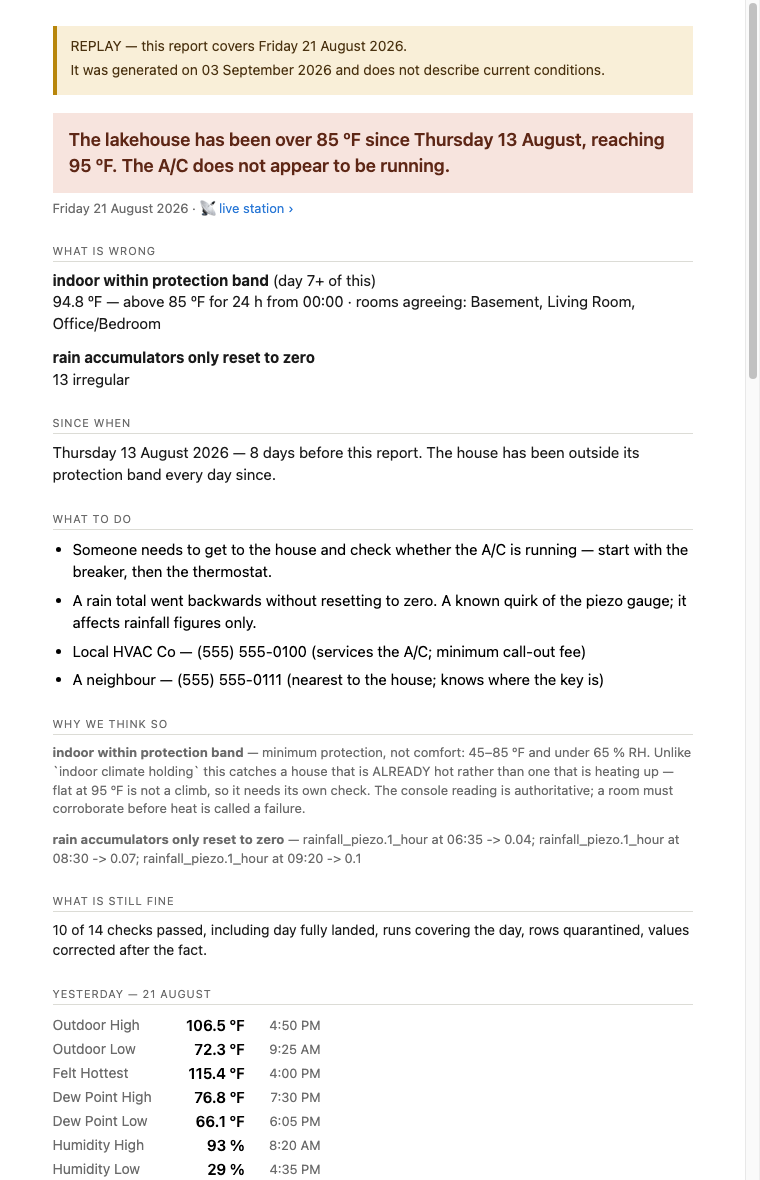
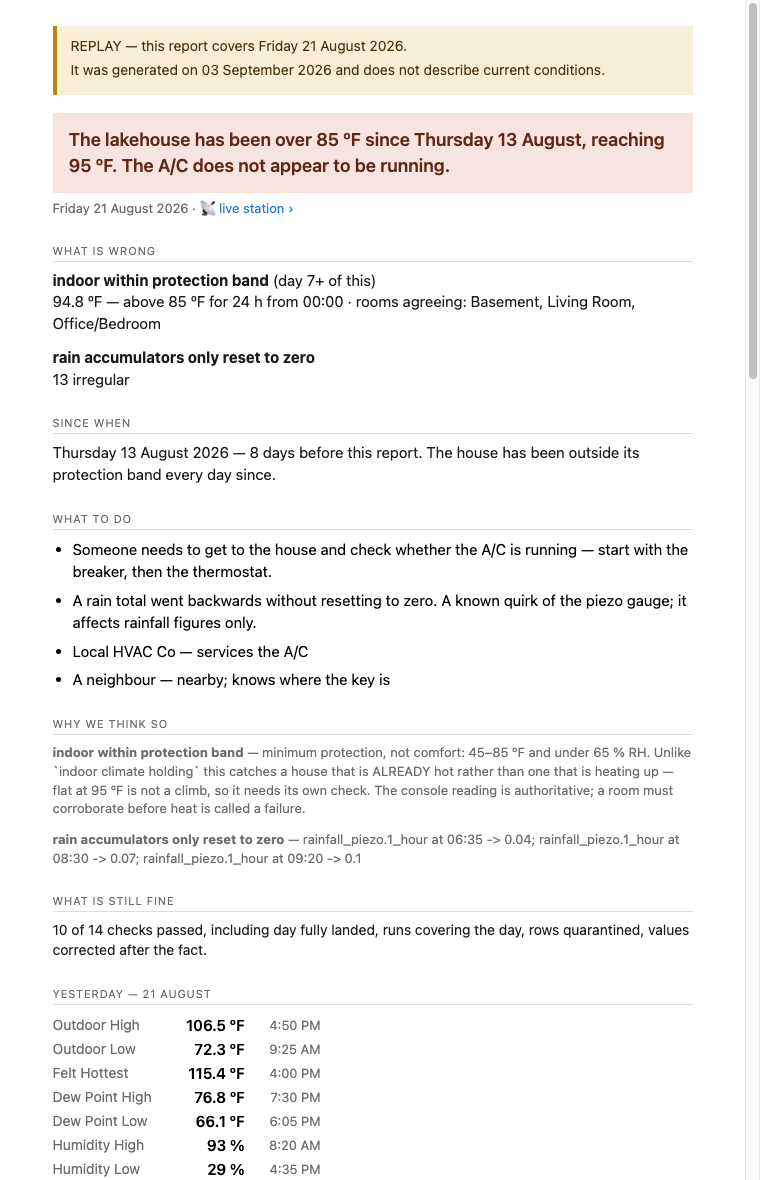
Stop carrying phone numbers, and stop assuming there is one
`reach` is now optional and normally empty. A number in a secret store, in an
email body, and in a rendered screenshot is three copies of somebody else's
contact details, and the people who receive these emails already know how to
reach a neighbour. Naming WHO is the part they cannot infer.

The field stays in the shape so an entry that genuinely needs one -- an
after-hours line nobody memorises -- can carry it without a code change.

Also isolates the tests from the ambient environment. A test asserting "no
contact is configured" passed on a clean shell and failed on a maintainer's,
because LAKEHOUSE_CONTACTS happened to be exported. A test that depends on the
environment reports on the environment.

Changed region(s): [[0.2421, 0.5492, 0.7868, 0.5797]]

diff --git a/src/reporting/config.py b/src/reporting/config.py
@@ -172,11 +172,15 @@ def priority(check: str) -> int:
 # `.env` locally. See .env.example for the format.
 #
 #   LAKEHOUSE_CONTACTS='[
-#     {"who": "Some HVAC Co", "reach": "(555) 555-0100",
-#      "what": "services the A/C; minimum call-out fee"},
-#     {"who": "A neighbour",  "reach": "(555) 555-0111",
-#      "what": "nearest to the house; knows where the key is"}
+#     {"who": "Some HVAC Co", "what": "services the A/C"},
+#     {"who": "A neighbour",  "what": "nearest to the house; knows where the key is"}
 #   ]'
+#
+# `reach` is an optional third field and is deliberately unused: this system
+# stores nothing it does not need, and a phone number in a secret store, an
+# email body and a rendered screenshot is three copies of somebody else's
+# contact details. The people who receive these emails already know how to
+# reach a neighbour; naming WHO is the part they cannot infer.
 #
 # When it is unset the ACTION email prints an explicit "no contact is
 # configured" line rather than quietly omitting the section: a missing
@@ -187,6 +191,10 @@ ENV_CONTACTS = "LAKEHOUSE_CONTACTS"
 def contacts() -> list[tuple[str, str, str]]:
     """(who, how to reach them, what they can do), from the environment.
 
+    `reach` is optional and normally empty -- see the note above. It stays in
+    the shape so an entry that genuinely needs it (an after-hours line nobody
+    memorises) can carry one without a code change.
+
     Never raises. A malformed list costs the email its contact block, which is
     a degraded ACTION email; letting it raise would cost the email entirely,
     which is the failure this whole project is built against.
@@ -195,7 +203,10 @@ def contacts() -> list[tuple[str, str, str]]:
     if not raw:
         return []
     try:
-        return [(entry["who"], entry["reach"], entry.get("what", "")) for entry in json.loads(raw)]
+        return [
+            (entry["who"], entry.get("reach", ""), entry.get("what", ""))
+            for entry in json.loads(raw)
+        ]
     except Exception as exc:  # never raise from the report path
         print(
             f"WARNING: {ENV_CONTACTS} is set but could not be read "

diff --git a/tests/test_reporting_send.py b/tests/test_reporting_send.py
@@ -213,7 +213,7 @@ def test_a_data_failure_does_not_summon_the_neighbours(monkeypatch, fixture_db):
     """
     monkeypatch.setenv(
         config.ENV_CONTACTS,
-        '[{"who": "Some HVAC Co", "reach": "(555) 555-0100", "what": "services the A/C"}]',
+        '[{"who": "Some HVAC Co", "what": "services the A/C"}]',
     )
     # A clean house, but no ingestion run recorded for the window.
     start, end = day_bounds("2026-08-05")
@@ -222,7 +222,7 @@ def test_a_data_failure_does_not_summon_the_neighbours(monkeypatch, fixture_db):
     assert report.severity == "alert"
     assert "runs covering the day" in [i["check"] for i in report.attention["items"]]
     joined = " ".join(report.actions)
-    assert "555-0100" not in joined, "a data failure must not print the contact list"
+    assert "Some HVAC Co" not in joined, "a data failure must not print the contact list"
     assert "not house problems" in joined
     assert "Check the timers" in joined
 
@@ -230,12 +230,12 @@ def test_a_data_failure_does_not_summon_the_neighbours(monkeypatch, fixture_db):
 def test_a_house_failure_does_summon_them(monkeypatch, fixture_db):
     monkeypatch.setenv(
         config.ENV_CONTACTS,
-        '[{"who": "Some HVAC Co", "reach": "(555) 555-0100", "what": "services the A/C"}]',
+        '[{"who": "Some HVAC Co", "what": "services the A/C"}]',
     )
     start, end = day_bounds("2026-08-16")
     report = build(fixture_db, "2026-08-16", build_day(start, end, indoor=95.0, indoor_room=93.0))
     joined = " ".join(report.actions)
-    assert "555-0100" in joined
+    assert "Some HVAC Co" in joined
     assert "check whether the A/C is running" in joined
 
 

diff --git a/tests/conftest.py b/tests/conftest.py
@@ -172,3 +172,27 @@ def build_day(
     if gaps:
         frame.iloc[10 : 10 + gaps] = pd.NA
     return frame
+
+
+@pytest.fixture(autouse=True)
+def _isolate_report_env(monkeypatch):
+    """Unset every report variable before each test.
+
+    Without this, a test asserting "no contact is configured" passes on a clean
+    shell and fails on the maintainer's, because LAKEHOUSE_CONTACTS happens to
+    be exported. A test that depends on the ambient environment is a test that
+    reports on the environment.
+    """
+    for name in (
+        "LAKEHOUSE_CONTACTS",
+        "LAKEHOUSE_EMAIL_TO",
+        "LAKEHOUSE_EMAIL_TEST_TO",
+        "LAKEHOUSE_EMAIL_FROM",
+        "LAKEHOUSE_SMTP_USER",
+        "LAKEHOUSE_SMTP_PASSWORD",
+        "LAKEHOUSE_REPLY_TO",
+        "LAKEHOUSE_STATION_URL",
+        "ANTHROPIC_API_KEY",
+        "ANTHROPIC_WORKSPACE_ID",
+    ):
+        monkeypatch.delenv(name, raising=False)

diff --git a/src/reporting/report.py b/src/reporting/report.py
@@ -516,7 +516,9 @@ def _actions(items: list[dict]) -> list[str]:
         return out
 
     if people := config.contacts():
-        out += [f"{who} — {reach}" + (f" ({what})" if what else "") for who, reach, what in people]
+        out += [
+            " — ".join(part for part in (who, reach, what) if part) for who, reach, what in people
+        ]
     else:
         out.append(
             f"No contact is configured for the house ({config.ENV_CONTACTS} is "
